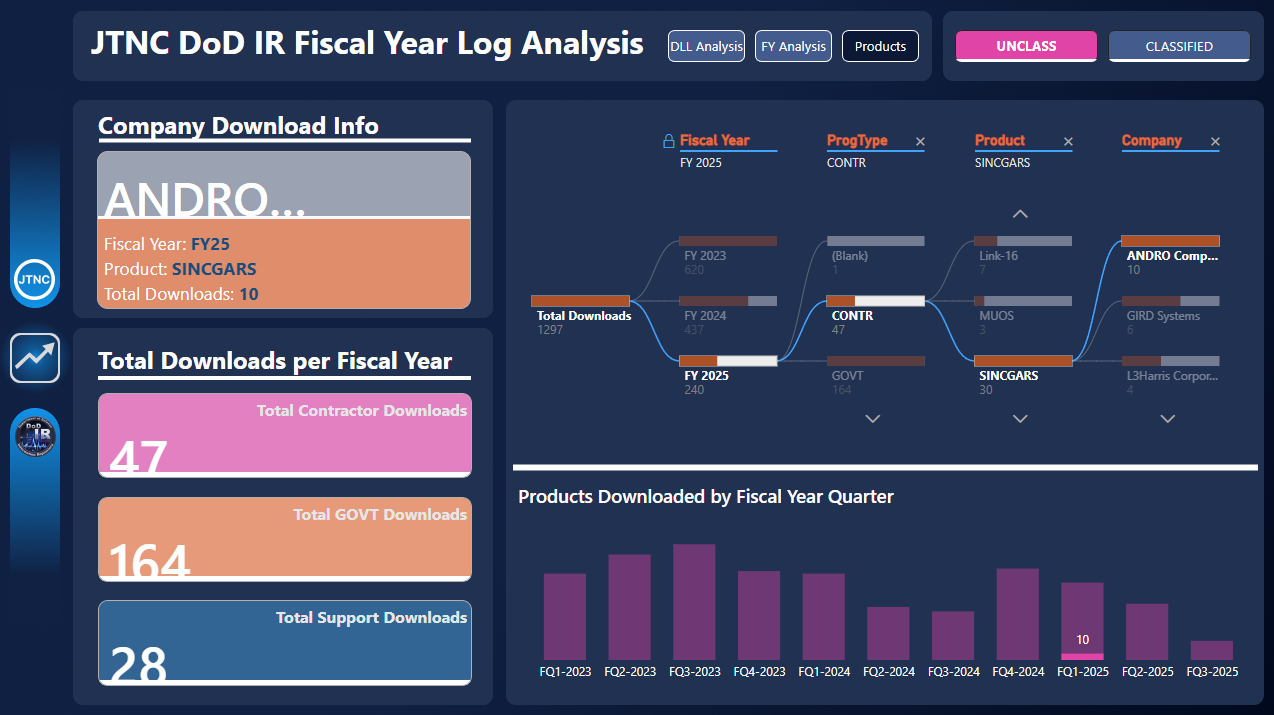
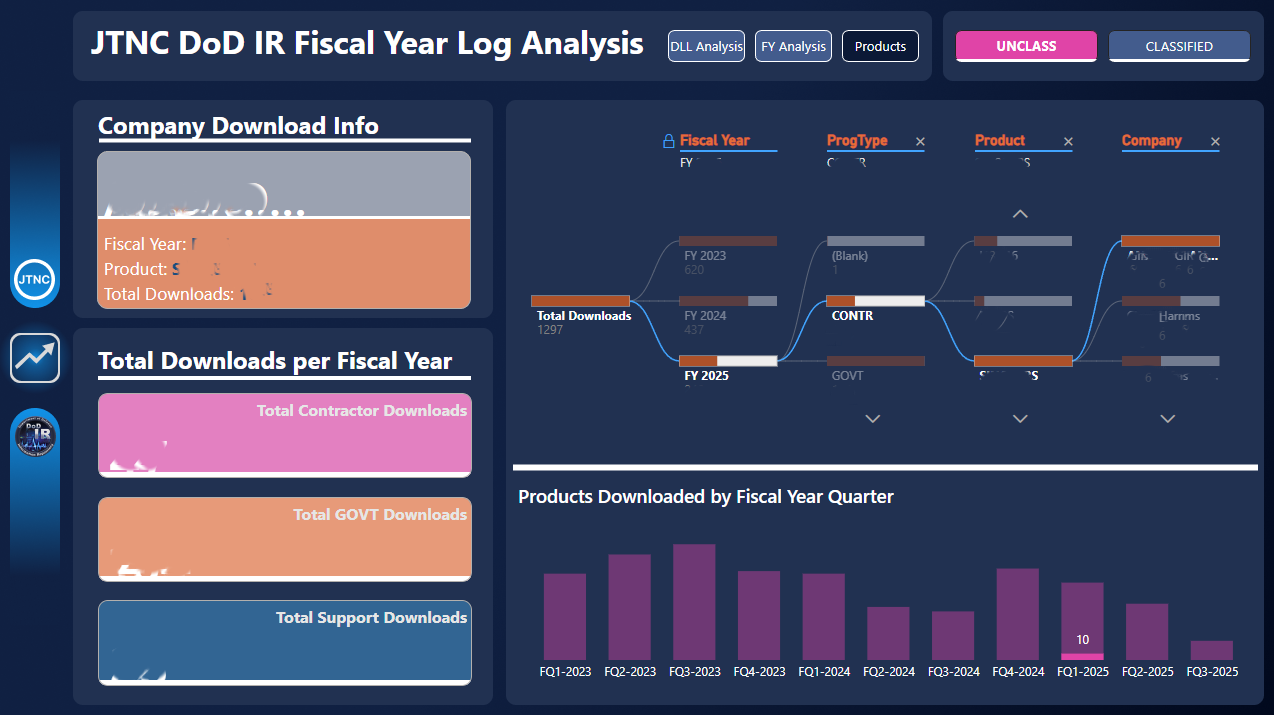
edit

diff --git a/index.html b/index.html
@@ -92,7 +92,7 @@
   <div class="modal-content">
     <span class="close-button">&times;</span>
     <h2 class="modal-title">DLL Analysis</h2>
-    <p class="modal-description">text text explain text, more text...metaphor...blah blah</p>
+    <p class="modal-description">This Power BI Dashboard was created to show the team the typs of data being </p>
     <div class="modal-images">
       <img src="images/Pasted image 20250522140135.png" alt="DLL Screenshot 1">
       <img src="images/Pasted image 20250522140242.png" alt="DLL Screenshot 2">
